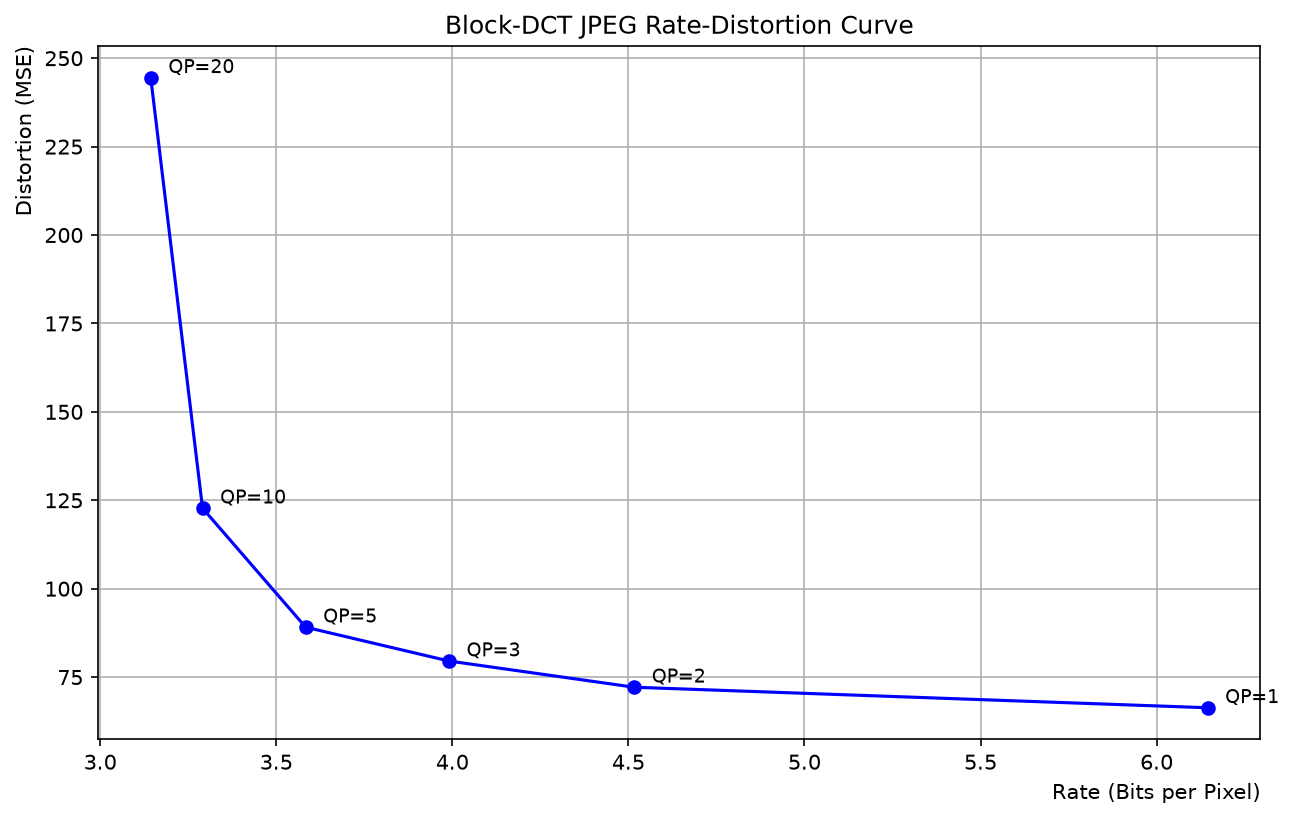
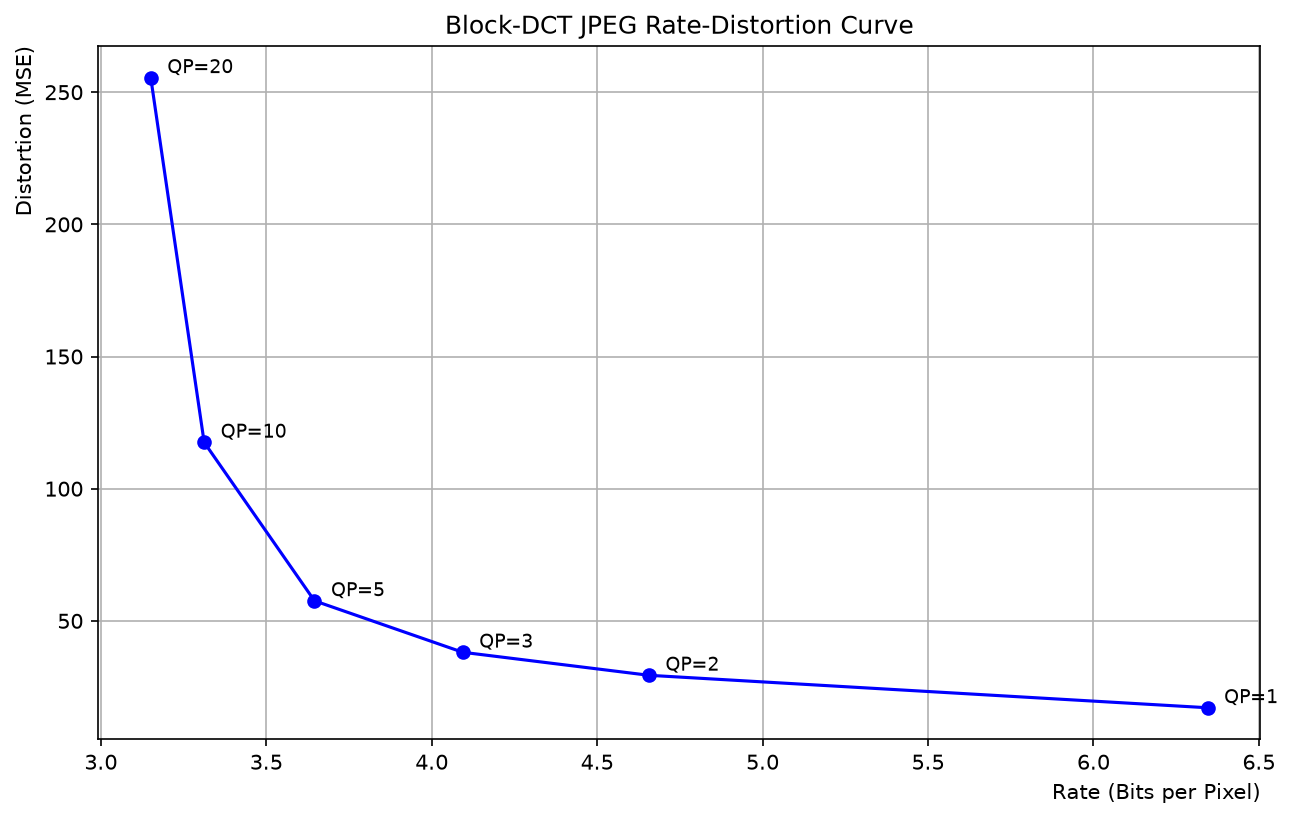
Replace synthetic test image with a real food photograph
Use a committed 512x512 photo (assets/food.jpg) as the default test
input instead of generating a synthetic image in run_all.py, and
regenerate all RD figures and README numbers from it.

diff --git a/run_all.py b/run_all.py
@@ -1,11 +1,9 @@
 """Run all three experiments in one command.
 
-To keep the pipeline reproducible with **no external data**, this script
-synthesizes a deterministic 512x512 test image (fixed seed) and runs all
-three experiments on it, writing everything to the untracked ``results/``
+Runs every experiment on the committed 512x512 test image
+(``assets/food.jpg``), writing everything to the untracked ``results/``
 directory:
 
-* ``results/input_synthetic.png``   -- the generated 512x512 test image
 * ``results/01_subband_transform.log``
 * ``results/02_subband_compression.log`` + ``rd_subband_qp.png`` / ``rd_subband_scaled.png``
 * ``results/03_block_dct_jpeg.log``      + ``rd_block_dct.png``
@@ -22,35 +20,9 @@ import os
 import subprocess
 import sys
 
-import cv2
-import numpy as np
-
 REPO_ROOT = os.path.dirname(os.path.abspath(__file__))
 OUT_DIR = os.path.join(REPO_ROOT, "results")
-
-
-def make_synthetic_image(size=512, seed=0):
-    """A deterministic 512x512 BGR image with gradients, shapes and texture.
-
-    Designed to contain both smooth regions and high-frequency detail so the
-    rate-distortion behaviour of the codec is meaningful.
-    """
-    rng = np.random.default_rng(seed)
-    yy, xx = np.mgrid[0:size, 0:size]
-    r = (xx / size * 255).astype(np.float32)
-    g = (yy / size * 255).astype(np.float32)
-    b = ((np.sin(xx / 16.0) + np.cos(yy / 16.0)) * 63 + 128).astype(np.float32)
-    img = np.stack([b, g, r], axis=2)
-    # a few solid discs (smooth low-frequency content)
-    for _ in range(6):
-        cx, cy = rng.integers(0, size, 2)
-        rad = int(rng.integers(30, 90))
-        color = rng.integers(0, 256, 3).astype(np.float32)
-        mask = (xx - cx) ** 2 + (yy - cy) ** 2 <= rad ** 2
-        img[mask] = color
-    # fine speckle texture (high-frequency content)
-    img += rng.normal(0, 12, img.shape).astype(np.float32)
-    return np.clip(img, 0, 255).astype(np.uint8)
+IMG_PATH = os.path.join(REPO_ROOT, "assets", "food.jpg")
 
 
 def run(name, args):
@@ -70,17 +42,13 @@ def main():
     os.makedirs(OUT_DIR, exist_ok=True)
     os.environ["MPLBACKEND"] = "Agg"
 
-    img_path = os.path.join(OUT_DIR, "input_synthetic.png")
-    cv2.imwrite(img_path, make_synthetic_image())
-    print(f"Synthetic input written to {os.path.relpath(img_path, REPO_ROOT)}")
-
     run("01_subband_transform",
-        ["experiments/01_subband_transform.py", "--image", img_path, "--levels", "3"])
+        ["experiments/01_subband_transform.py", "--image", IMG_PATH, "--levels", "3"])
     run("02_subband_compression",
-        ["experiments/02_subband_compression.py", "--image", img_path,
+        ["experiments/02_subband_compression.py", "--image", IMG_PATH,
          "--save-dir", OUT_DIR])
     run("03_block_dct_jpeg",
-        ["experiments/03_block_dct_jpeg.py", "--image", img_path,
+        ["experiments/03_block_dct_jpeg.py", "--image", IMG_PATH,
          "--save-dir", OUT_DIR])
 
     print("Done. Artifacts under results/.")

diff --git a/experiments/02_subband_compression.py b/experiments/02_subband_compression.py
@@ -1,4 +1,4 @@
-"""Experiment 2: subband compression with QP sweep and optimal-QP search.
+"""Experiment 2: subband compression with QP sweep and optimal-QP search.
 
 Takes the 3-level (vertical-then-horizontal) decomposition of the input image
 in YUV, giving 64 sub-images of size 64x64. Each channel of each sub-image is
@@ -40,7 +40,7 @@ SCALING_VALUES = [3.1, 3.5, 4, 5, 6, 7.7]
 
 def main():
     parser = argparse.ArgumentParser(description=__doc__)
-    parser.add_argument("--image", default="assets/input_synthetic.png", help="Path to a 512x512 color image")
+    parser.add_argument("--image", default="assets/food.jpg", help="Path to a 512x512 color image")
     parser.add_argument("--single-qp", type=float, default=100, help="QP for the single-point report")
     parser.add_argument("--no-plot", action="store_true", help="Skip RD-curve plotting")
     parser.add_argument("--save-dir", default=None, help="Directory to save RD-curve PNGs")

diff --git a/experiments/03_block_dct_jpeg.py b/experiments/03_block_dct_jpeg.py
@@ -1,4 +1,4 @@
-"""Experiment 3: textbook block-DCT JPEG codec with a QP sweep.
+"""Experiment 3: textbook block-DCT JPEG codec with a QP sweep.
 
 Splits the input image (YUV) into 8x8 blocks, then for each block applies the
 full JPEG chain: 2-D DCT -> quantize (standard luminance/chrominance tables) ->
@@ -26,7 +26,7 @@ QP_VALUES = [1, 2, 3, 5, 10, 20]
 
 def main():
     parser = argparse.ArgumentParser(description=__doc__)
-    parser.add_argument("--image", default="assets/input_synthetic.png", help="Path to a 512x512 color image")
+    parser.add_argument("--image", default="assets/food.jpg", help="Path to a 512x512 color image")
     parser.add_argument("--no-plot", action="store_true", help="Skip RD-curve plotting")
     parser.add_argument("--save-dir", default=None, help="Directory to save the RD-curve PNG")
     args = parser.parse_args()

diff --git a/experiments/01_subband_transform.py b/experiments/01_subband_transform.py
@@ -1,4 +1,4 @@
-"""Experiment 1: sum/difference (Haar-like) subband transform.
+"""Experiment 1: sum/difference (Haar-like) subband transform.
 
 Performs a 3-level sum/difference decomposition of the input image in both
 orders (horizontal-first and vertical-first), reconstructs, and reports the
@@ -22,7 +22,7 @@ from src.metrics import calculate_mse
 
 def main():
     parser = argparse.ArgumentParser(description=__doc__)
-    parser.add_argument("--image", default="assets/input_synthetic.png", help="Path to a 512x512 color image")
+    parser.add_argument("--image", default="assets/food.jpg", help="Path to a 512x512 color image")
     parser.add_argument("--levels", type=int, default=3, help="Decomposition levels per direction")
     args = parser.parse_args()
 

diff --git a/src/io_utils.py b/src/io_utils.py
@@ -20,7 +20,7 @@ def load_image(path, color_space="rgb"):
     if not os.path.exists(path):
         raise FileNotFoundError(
             f"Image not found: {path}. Pass any 512x512 color image via "
-            "--image, or run run_all.py to generate the synthetic input."
+            "--image (the default test image is assets/food.jpg)."
         )
     image = cv2.imread(path, cv2.IMREAD_COLOR)
     if image is None:

diff --git a/README.md b/README.md
@@ -51,10 +51,9 @@ image is rebuilt at each QP, and the rate-distortion curve is plotted.
 
 ## Test image
 
-No dataset is required. The committed test input is a deterministic synthetic
-512x512 image ([`assets/input_synthetic.png`](assets/input_synthetic.png),
-generated with a fixed seed by `run_all.py`), which the experiment scripts use
-by default. To run on a different picture, pass any 512x512 color image with
+No dataset is required. The committed test input is a 512x512 food photograph
+([`assets/food.jpg`](assets/food.jpg)), which the experiment scripts use by
+default. To run on a different picture, pass any 512x512 color image with
 `--image <path>`.
 
 ## Project structure
@@ -76,8 +75,8 @@ jpeg-dct-compression/
 │   ├── 01_subband_transform.py
 │   ├── 02_subband_compression.py
 │   └── 03_block_dct_jpeg.py
-├── run_all.py              # synthesize a 512x512 image + run all 3 experiments -> results/
-├── assets/                 # committed figures: synthetic input + RD curves (shown below)
+├── run_all.py              # run all 3 experiments on the test image -> results/
+├── assets/                 # committed test image + RD-curve figures (shown below)
 ├── docs/                   # project report (PDF)
 ├── requirements.txt
 └── README.md
@@ -97,7 +96,7 @@ pip install -r requirements.txt
 
 ## Usage
 
-Reproduce everything under `results/` on the synthetic image (no data needed):
+Reproduce everything under `results/` on the committed test image:
 
 ```bash
 python run_all.py
@@ -121,8 +120,8 @@ saves the RD-curve PNGs instead of displaying them interactively.
 
 ## Results
 
-All numbers and figures below come from `python run_all.py` on the synthetic
-test image.
+All numbers and figures below come from `python run_all.py` on the test
+image.
 
 ### 1. Subband transform — invertibility
 
@@ -142,24 +141,24 @@ Flat unit quantization tables with a single QP for every subband:
 
 | QP | MSE | rate (bpp) |
 | --- | --- | --- |
-| 139 | 1548.6 | 7.07 |
-| 160 | 1968.3 | 6.40 |
-| 192 | 2576.8 | 5.67 |
-| 240 | 3326.4 | 4.96 |
-| 310 | 4056.0 | 4.39 |
-| 450 | 4750.3 | 3.89 |
+| 139 | 489.4 | 6.42 |
+| 160 | 606.4 | 5.96 |
+| 192 | 798.1 | 5.44 |
+| 240 | 1102.7 | 4.93 |
+| 310 | 1559.1 | 4.47 |
+| 450 | 2464.8 | 3.98 |
 
 Per-subband optimal QPs (minimizing `cost = alpha * MSE + beta * rate`),
 scaled by a factor `SV` — much lower MSE at comparable rates:
 
 | SV | MSE | rate (bpp) |
 | --- | --- | --- |
-| 3.1 | 376.2 | 8.05 |
-| 3.5 | 477.1 | 7.50 |
-| 4.0 | 624.0 | 6.94 |
-| 5.0 | 971.5 | 6.14 |
-| 6.0 | 1391.7 | 5.54 |
-| 7.7 | 2239.7 | 4.84 |
+| 3.1 | 248.6 | 5.90 |
+| 3.5 | 307.8 | 5.56 |
+| 4.0 | 388.0 | 5.23 |
+| 5.0 | 568.6 | 4.76 |
+| 6.0 | 823.3 | 4.45 |
+| 7.7 | 1275.7 | 4.11 |
 
 ![subband QP sweep](assets/rd_subband_qp.png)
 ![subband scaled RD](assets/rd_subband_scaled.png)
@@ -170,12 +169,12 @@ Textbook 8x8 block DCT with the standard JPEG luminance/chrominance tables:
 
 | QP | MSE | rate (bpp) |
 | --- | --- | --- |
-| 1 | 66.3 | 6.14 |
-| 2 | 72.1 | 4.52 |
-| 3 | 79.5 | 3.99 |
-| 5 | 89.1 | 3.58 |
-| 10 | 122.8 | 3.29 |
-| 20 | 244.5 | 3.14 |
+| 1 | 17.1 | 6.34 |
+| 2 | 29.4 | 4.66 |
+| 3 | 38.1 | 4.09 |
+| 5 | 57.6 | 3.65 |
+| 10 | 117.5 | 3.31 |
+| 20 | 255.5 | 3.15 |
 
 ![block DCT RD](assets/rd_block_dct.png)
 
